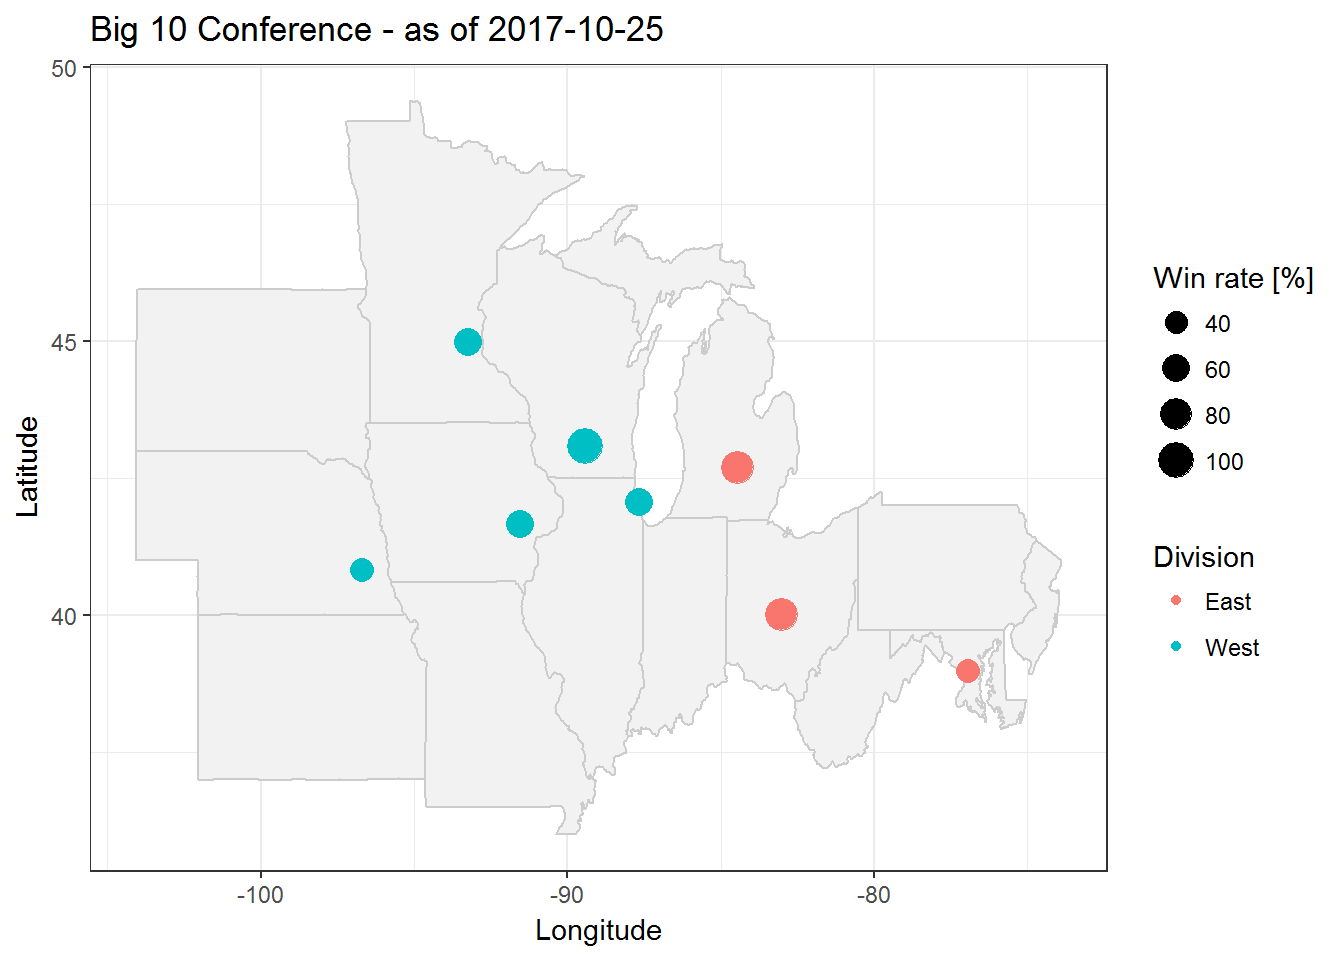
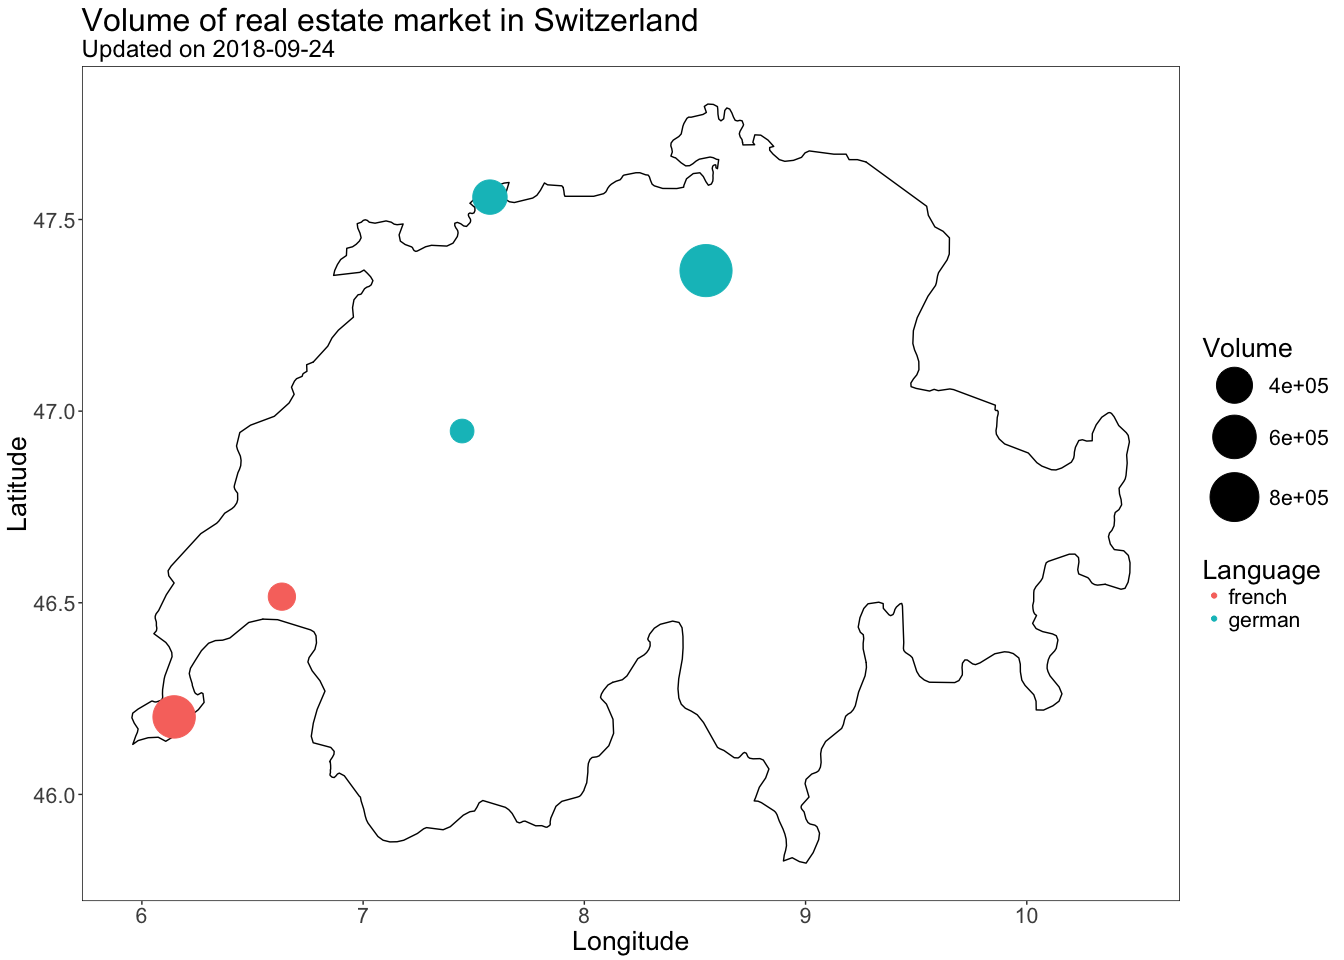
Update Homework #2. Add a new picture to style.md.

diff --git a/content/homeworks/hw2.md b/content/homeworks/hw2.md
@@ -38,37 +38,61 @@ An example of the output would be:
 1, 2, Fizz, 4, Buzz, Fizz, 7, 8, Fizz, Buzz, 11, Fizz, 13, 14, FizzBuzz, 16, 17, Fizz, 19, Buzz, Fizz, 22, 23, Fizz, Buzz, 26, Fizz, 28, 29, FizzBuzz, 31, 32, Fizz, 34, Buzz, Fizz, ...
 ```
 #### Problem 2: Map
-Using the same tools we used in class, create a simple map to represent current standing in the Big Ten football conference. More specifically, the goal of this problem is to reproduce as closely as possible the map below:
+Using the same tools we used in class, create a simple map to represent the volume of the real estate market in Switzerland. More specifically, the goal of this problem is to reproduce as closely as possible the map below:
 
 <img src="/homeworks/map_hw2.png" alt="map" width="400px"/> 
 
-Note that the code below was used to download the data needed for this graph:
+Note that the code below was used to scrap the data needed for this graph:
 
 ```{toml}
-library(maps)
-library(ggmap)
-library(rvest)
+# Please do not forget to update ptds2018
 
-# Define webpage
-big10 = read_html("http://www.bigten.org/library/stats/fb-confsked.html#standings")
+library("rworldmap")
+library("rworldxtra")
+library("ggmap")
+library("tidyverse")
+library("magrittr")
+library("ptds2018")
 
-# Get uni names
-big10 %>% 
-    html_nodes(".b1gfbstats:nth-child(9) td:nth-child(1) , .b1gfbstats:nth-child(6) td:nth-child(1)") %>% 
-    html_text() -> uni_name
-uni_name = paste(uni_name,"University")
+cities = data.frame(
+    name = c("zurich", "bern", "lausanne", "geneva", "basel"),
+    language = c("german", "german", "french", "french", "german"),
+    stringsAsFactors = FALSE
+)
 
-# Find uni locations
-uni_coord = data.frame(geocode(uni_name))
+# Scrap prices from comparis.ch
+#-------------------------------------------------------------------------------
 
-# Get win rate
-big10 %>% 
-    html_nodes("td:nth-child(7)") %>%
-    html_text() -> uni_wp
-uni_coord$wp = 100*as.numeric(uni_wp[1:length(uni_name)])
+volumes <- sapply(cities$name, get_volume)
 
-# Get division
-uni_coord$conf = rep(c("East Division","West Division"), each = length(uni_name)/2)
+cities <- cbind(
+    cities,
+    data.frame(volume = volumes)
+)
+
+# ...or use dplyr
+# cities <- cities %>%
+#     dplyr::mutate(volume = volumes)
+
+# Define cities' coordinates
+#-------------------------------------------------------------------------------
+
+cities <- cbind(
+    cities,
+    geocode(location = cities$name, source = "dsk")
+)
+
+
+# Draw the map
+#-------------------------------------------------------------------------------
+
+world_map <- getMap(resolution = "high")
+
+which(sapply(1:243, function(x) world_map@polygons[[x]]@ID) == "Switzerland")
+
+switzerland <- world_map@polygons[[40]]@Polygons[[1]]@coords %>% as_tibble()
+
+# your code goes here
 ```
 
 #### Problem 3: 3D-random walk

diff --git a/content/tutorials/style.md b/content/tutorials/style.md
@@ -1,5 +1,6 @@
 +++
 title = "R Coding Style Guide"
+author = "Iegor Rudnytskyi"
 date =  2018-09-03T11:18:38+02:00
 weight = 5
 +++
@@ -13,6 +14,8 @@ weight = 5
 A language is a tool that allows human beings to interact and communicate with each other. The clearer we express ourselves, the better an idea is transferred from our mind to the other. The same applies to programming languages: concise, clear and consistent codes are easier to read and/or edit. It is especially important, if you have collaborators, who depend on your code. However, even if you don't, keep in mind that at some point in time, you might come back to your code, for example, to fix an error. And if you did not follow consistently your coding style, reviewing your code can take much longer, than you expected. In this context, taking care of your audience means to make your code as readable as possible.
 
 There is no such thing as a "correct" coding style, as there is no such thing as the best color. At the end of the day, the coding style is a set of developers' preferences. If you are coding alone, sticking to your coding style and being consistent is more than enough. The story is a bit different if you are working in a team: it is crucial to agree on a convention beforehand and make sure that everyone follows it. 
+
+<img src="/tutorials/names.jpg" alt="map" width="400px"/> 
 
 Even though there is no an official style guide, R is mature and steady enough to have an "unofficial" convention. In this tutorial, you will learn these "unofficial" rules, their deviations, and most common styles.
 

diff --git a/content/tutorials/workflow.md b/content/tutorials/workflow.md
@@ -1,5 +1,6 @@
 +++
 title = "Project-oriented workflow"
+author = "Iegor Rudnytskyi"
 date =  2018-09-03T11:19:38+02:00
 weight = 10
 +++
